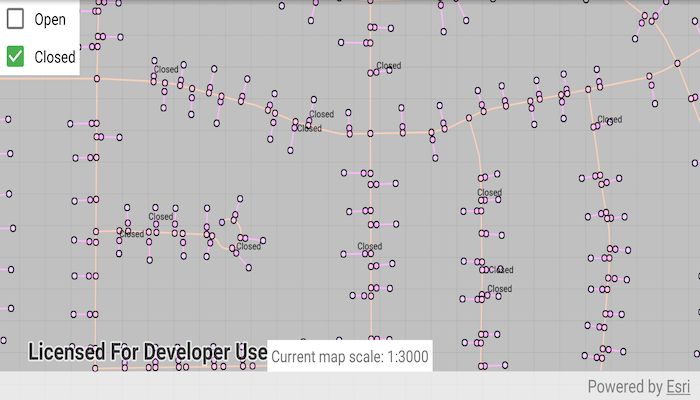
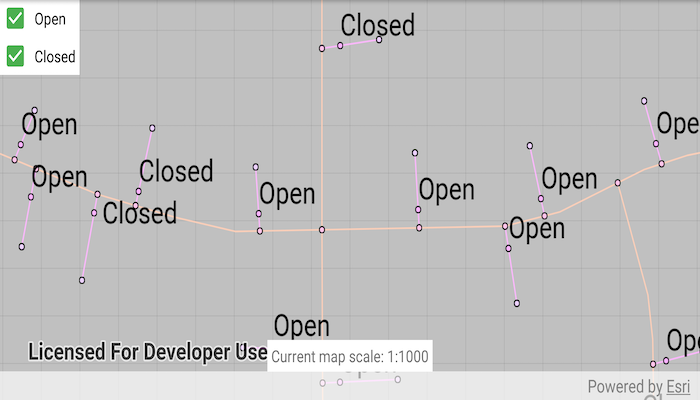
add README and screenshot

diff --git a/java/set-annotation-sublayer-visibility/src/main/java/com/esri/arcgisruntime/sample/annotationsublayer/MainActivity.java b/java/set-annotation-sublayer-visibility/src/main/java/com/esri/arcgisruntime/sample/annotationsublayer/MainActivity.java
@@ -105,7 +105,6 @@ public class MainActivity extends AppCompatActivity {
     if (ContextCompat.checkSelfPermission(this, reqPermission[0]) == PackageManager.PERMISSION_GRANTED) {
       addSublayersWithAnnotation();
     } else {
-      // request permission
       ActivityCompat.requestPermissions(this, reqPermission, requestCode);
     }
   }

diff --git a/java/set-annotation-sublayer-visibility/README.md b/java/set-annotation-sublayer-visibility/README.md
@@ -6,11 +6,14 @@ Use annotation sublayers to control the scales at which different annotation is 
 
 ## Use case
 
-Annotation, which differs from labels by having a fixed place and size, is typically only relevant at particular scales. Annotation sublayers allow for finer control of annotation by allowing properties (like visibility) to be set on subtypes of an annotation layer. 
+Annotation, which differs from labels by having a fixed place and size, is typically only relevant at particular scales. Annotation sublayers allow for finer control of annotation by allowing properties (like visibility in the map and legend) to be set and others to be read (like name) on subtypes of an annotation layer.
+
+An annotation dataset which marks valves as "Opened" or "Closed", might be set to display the "Closed" valves over a broader range of scales than the "Opened" valves, if the "Closed" data is considered more relevant by the map's author. Regardless, the user can be given a manual option to set visibility of annotation sublayers on and off, if required.
 
 ## How to use the sample
 
-Start the sample and take note of the visibility of the annotation. Zoom in and out to see the annotation turn on and off based on scale ranges set on the data:
+Start the sample and take note of the visibility of the annotation. Zoom in and out to see the annotation turn on and off based on scale ranges set on the data. The scale ranges were set by the map's author using ArcGIS Pro:
+
 * The "Open" annotation sublayer has its minimum scale set to 1:500 and its maximum scale set to 1:1500.
 * The "Closed" annotation sublayer has its minimum scale set to 1:500 and its maximum scale set to 1:5000.
 
@@ -19,9 +22,9 @@ Use the checkboxes to manually turn the "Open" and "Closed" annotation sublayers
 ## How it works
 
 1. Load the `MobileMapPackage`.
-1. Populate checkbox text with the `AnnotationSublayer` names.
-1. Wire up the checkboxes to toggle the annotation sublayer's visibility.
-1. On changes to map view navigation, set the current scale to the associated UI element at the bottom of the screen.
+2. Populate checkbox text with the `AnnotationSublayer` names.
+3. Wire up the checkboxes to toggle the annotation sublayer's visibility.
+4. Add a listener for changes in map view navigation and update the current scale UI element at the bottom of the screen on navigation.
  
 ## Relevant API
 
@@ -30,10 +33,11 @@ Use the checkboxes to manually turn the "Open" and "Closed" annotation sublayers
 * LayerContent
 
 ## Offline Data
+
 1. Download the data from [ArcGIS Online](https://arcgisruntime.maps.arcgis.com/home/item.html?id=b87307dcfb26411eb2e92e1627cb615b).
-1. Extract the contents of the downloaded zip file to disk.
-1. Open your command prompt and navigate to the folder where you extracted the contents of the data from step 1.
-1. Execute the following command:
+2. Extract the contents of the downloaded zip file to disk.
+3. Open your command prompt and navigate to the folder where you extracted the contents of the data from step 1.
+4. Execute the following command:
 `adb push GasDeviceAnno.mmpk /sdcard/ArcGIS/Samples/MapPackage/GasDeviceAnno.mmpk`
 
 
